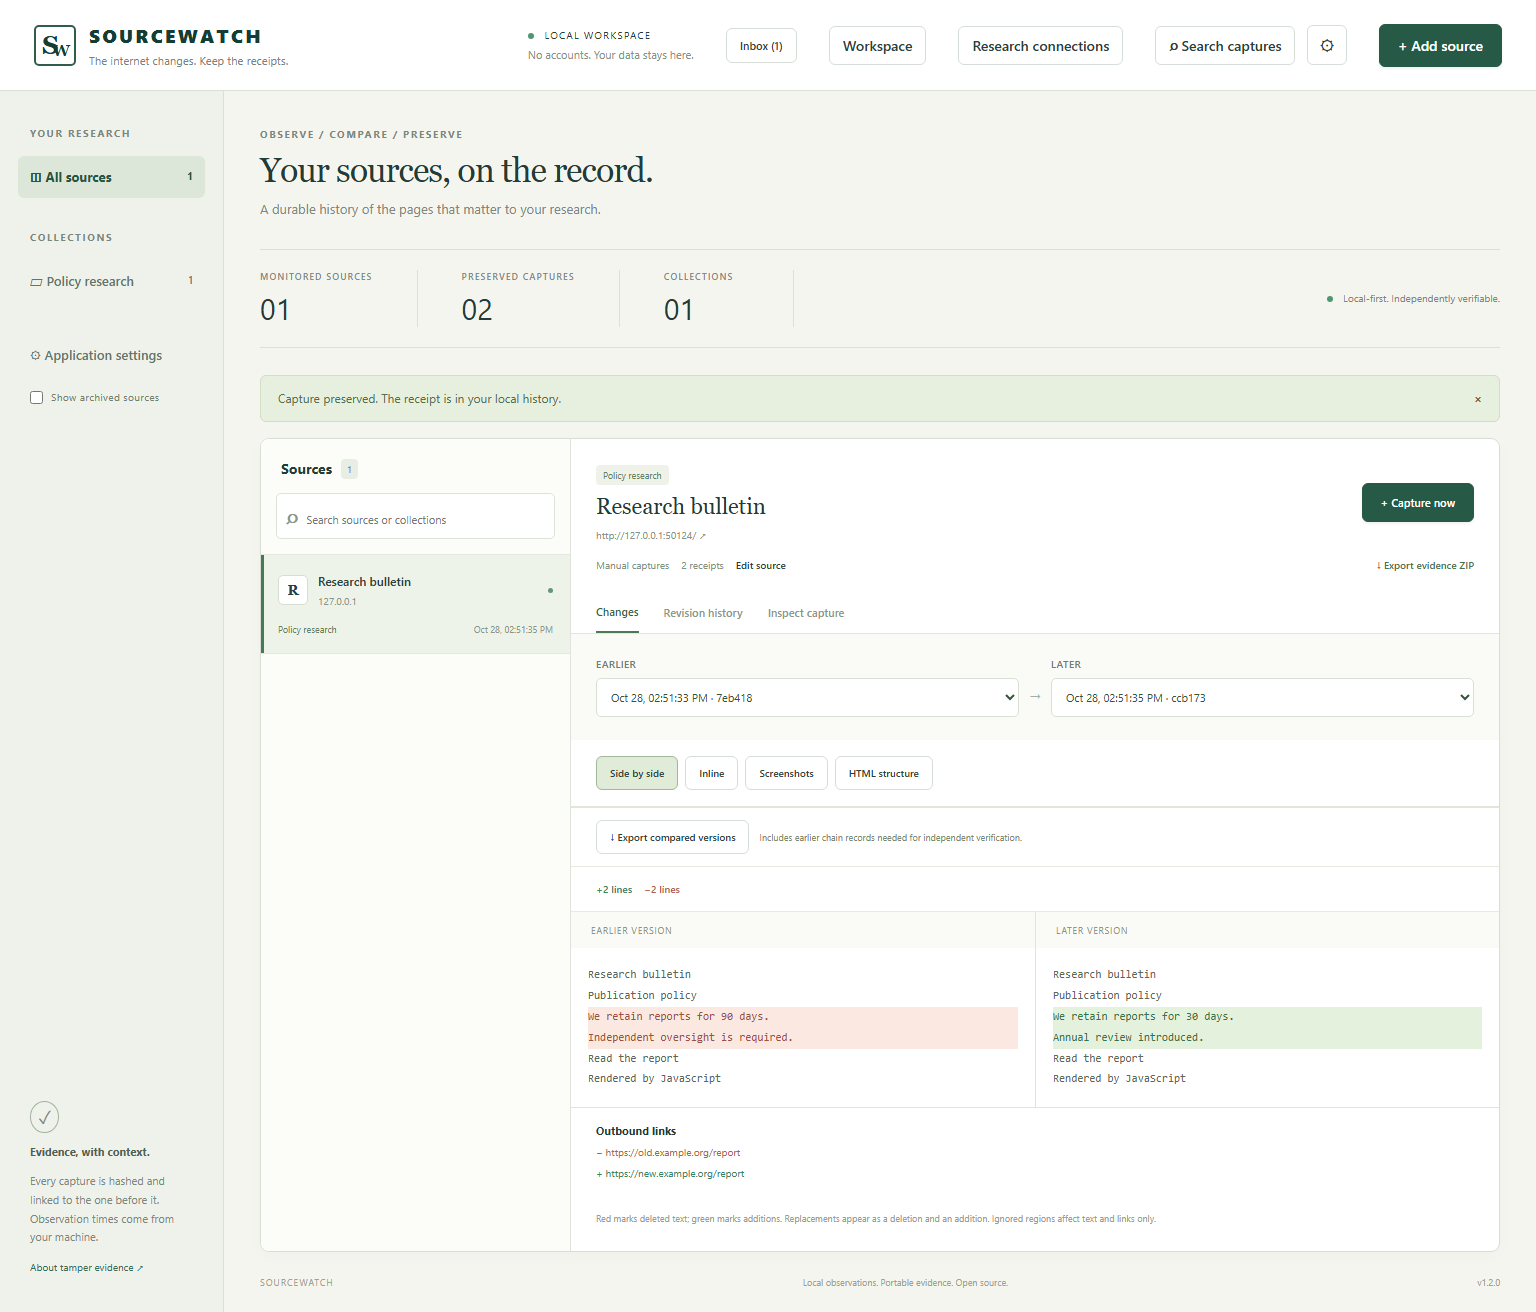
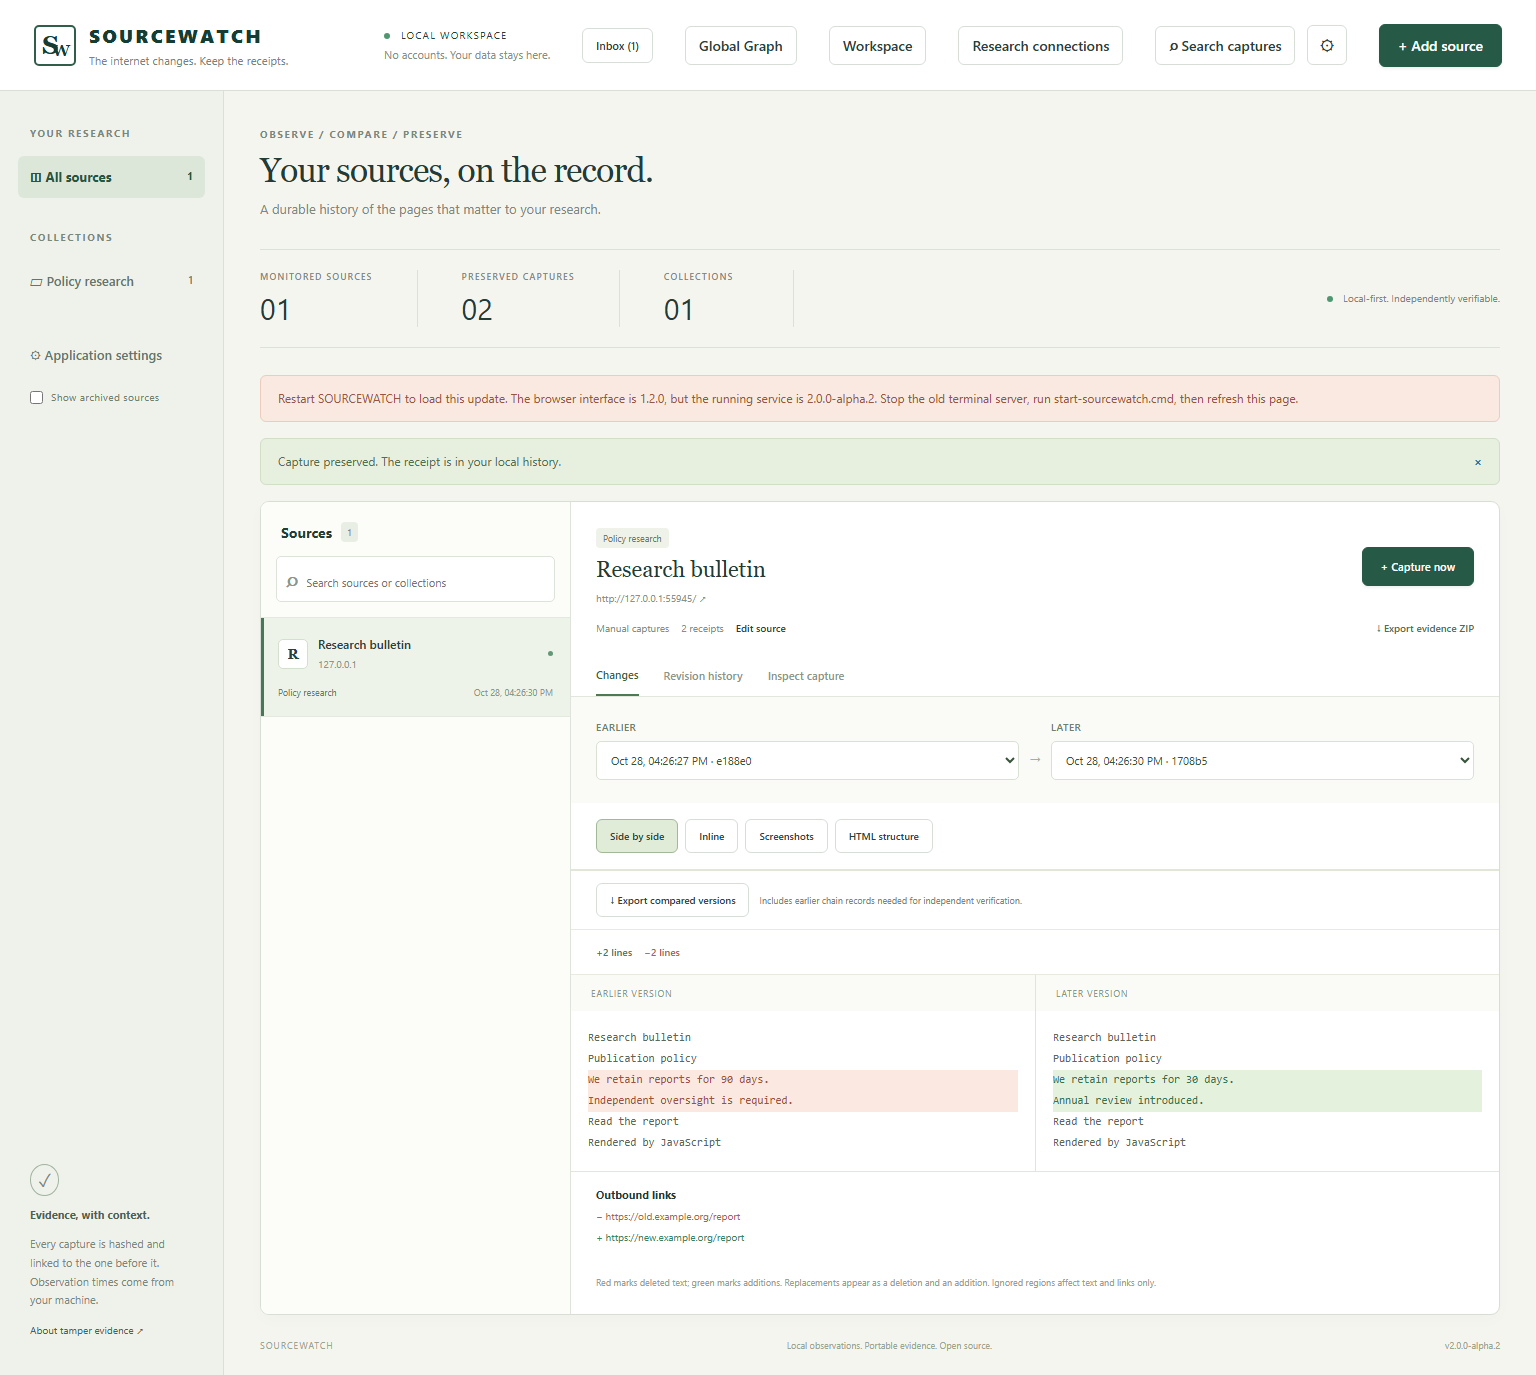
Record Global Graph audit dataset counts and renderer benchmarks

diff --git a/docs/GLOBAL_GRAPH_AUDIT.md b/docs/GLOBAL_GRAPH_AUDIT.md
@@ -1,0 +1,56 @@
+# Global Graph implementation audit — 2.0.0-alpha.2
+
+## Finding
+
+Before this change SourceWatch had a bounded Network explorer, not a functional Obsidian-style Global Graph. `intelligence.graph()` capped displayed nodes/edges at 500, concentrated on entity/relationship records, and `ui/intelligence.tsx` placed nodes around a circle. There was no continuously refreshed whole-ecosystem index, force simulation, global category styling or cluster navigation. Existing database forms, local Network explorer and editable Canvas were retained.
+
+Obsidian's documented reference behavior includes whole-vault notes/links, degree-based node sizes, selection, zoom/pan, orphan visibility, group colors, adjustable forces, and a depth-controlled local graph: https://obsidian.md/help/plugins/graph . SourceWatch now supplies the analogous research navigation without claiming full Obsidian parity.
+
+## Real dataset audit
+
+The default local `data/sourcewatch.sqlite` was opened read-only. Its aggregate counts matched the running service's catalog (one source, one capture, one vault). No research titles, URLs, artifacts or personal contents were copied into this report.
+
+| Metric | Observed |
+| --- | ---: |
+| Eligible indexed records | 2 |
+| Indexed entities | 0 |
+| Stored links | 1 |
+| Orphaned nodes | 0 |
+| Excluded records | 1 |
+| Unresolved stored references | 0 |
+
+The link is source-to-preserved-capture membership, not an invented factual association. The excluded record is vault configuration. This dataset is too small to resemble a mature research network. `GLOBAL_GRAPH_DATA_AUDIT.json` records the aggregate audit. No demonstration nodes or relationships were inserted into this database.
+
+## Implemented components
+
+- **Global Graph** is a dashboard button, a workspace tab and a command-palette destination. The separate original Network view and Canvas continue to work.
+- `src/ecosystem.ts` derives nodes from nondeleted notes, attachments/documents, monitored sources, captures/evidence, entities, investigations, relationship records, canvases, boards, corrections and legacy research nodes. Configuration, preferences and deleted records are excluded and counted.
+- Edges derive from actual wikilinks (including aliases, UUIDs, folders and headings), matched source hyperlinks, explicit references, evidence citations, relationship endpoints, investigations/timelines, canvas placements/annotations and legacy links. Hyperlinks, citations, annotations, reviewed associations and membership have distinct categories. Canvas hypotheses remain annotations even when the corresponding authoritative database relationship is reviewed.
+- The API detects connection-local writes and external SQLite changes, rebuilding its cached index when needed. An open graph polls every two seconds. No manual graph reconstruction is needed. Deletions remove indexed records; missing/ambiguous references are counted rather than guessed.
+- Canvas 2D draws the ecosystem; a bundled worker runs link springs, spatial-grid repulsion and cluster-centering forces. This is a real dynamic simulation, not a fixed circular diagram. Work settles after 180 ticks and reheats for graph changes or dragging. Repulsion samples bounded local neighbors rather than all-pairs work.
+- Nodes use category colors and per-category size multipliers, with additional degree-based hub sizing. Colors/sizes persist locally. Pan, pointer-centered wheel zoom, buttons, keyboard panning and fit operate independently of record inspection.
+- Global Ecosystem, Local Network (one to eight undirected hops) and Investigation Network perspectives share the index. Search, category/link filters, isolated-node visibility, cluster collapse/expansion and cluster focusing are available. Connected components are split into bounded connected neighborhoods when large; these clusters are navigation aids, not asserted social or factual communities.
+- Node selection shows the corresponding stored record and known links in an inspector. Full record navigation reuses the existing editors/evidence inspector. Graph state remains mounted during workspace navigation; selection, viewport and filter context have session recovery when leaving/reopening the workspace.
+- Investigations retain references and independently saved graph coordinates/viewport with revision conflicts. They can open a persistent investigation canvas using the existing editable cards, evidence references and annotation tools. Canvas conversion is bounded to 1,000 records; existing investigation canvases are reused, not silently overwritten.
+
+## Populated demonstration
+
+Select **Demonstration dataset** in Global Graph, or use `/?workspace=graph&demo=1`. It supplies 10,000 synthetic mixed-category records and 12,000 explicitly synthetic links in memory, including hubs and inter-cluster connections. Demo data is visibly labeled and never written to the research database. No synthetic association is labeled verified. The separate preview service on port 3211 uses `work/global-graph-preview` rather than production data.
+
+## Verification and performance
+
+Production build/TypeScript and ESLint passed. The full regression suite passed **102 tests: 99 passed, 0 failed, 3 Windows symlink/junction privilege skips**. A subsequent 16-test browser/integration run passed after context/focus refinements. Browser tests exercise discoverability, selected records and links, automatic updates after writes, local depth, cluster collapse/focus/expand, return from a record, all 10,000 nodes/12,000 edges, search, export-independent layout persistence and the existing investigation journey. Tests use isolated databases.
+
+`global-graph-browser-benchmark.json` contains measured real Chromium renderer/search results from the latest run; these are local measurements, not cross-device guarantees. The test waits for the worker's complete 180 ticks, verifies 10,000 visible nodes and 12,000 edges, searches a record near the end of the index, and asserts no database writes from demo mode.
+
+`npm run benchmark:global-graph` independently seeds a temporary SQLite database with 10,000 stored notes and 12,000 real wikilinks, then runs the actual indexer and force code. The measured index took **483 ms**, force preparation **46 ms**, and 20 force iterations **350 ms**, with approximately **172 MiB** process RSS. Its entire graph was returned (no 500-node truncation); see `global-graph-index-benchmark.json`. This fixture database is removed afterward.
+
+## Limits
+
+This is not an unlimited graph or a full Obsidian clone. Safety ceilings are 100,000 indexed nodes and 250,000 edges, with an explicit truncation flag. Performance is validated at 10,000/12,000, not guaranteed at those ceilings. Search filters the rendered subset; the accessible result list shows the first 100 matches and search can reach any indexed node. The center dropdown lists up to 12,000 choices; larger indexes can select a center through node search. Relationship lists show the first 100 entries while the graph retains the indexed edges. Local depth is a graph-distance view, not proof of causality or identity. Clustering is topological neighborhood grouping, not a validated community-detection finding.
+
+The force engine uses bounded spatial sampling; arbitrary force equations and GPU rendering are not implemented. Indexes are derived on demand and refreshed within about two seconds, rather than maintained by a separate background indexing daemon. Browser/mobile hardware beyond Chromium remains pending. Reviewed status means a local explicit evidence review; hashes and graph appearance do not certify authenticity, factual truth or independent publication timestamps.
+
+## Running the updated application
+
+An already running backend must restart to register the new routes. Stop it with Ctrl+C, then from the dedicated sourcewatch folder run `npm.cmd run build` and `npm.cmd start`. The UI shows restart guidance when backend/frontend versions differ. The existing service on port 3210 was not killed during this audit.

diff --git a/docs/WORKSPACE_GUIDE.md b/docs/WORKSPACE_GUIDE.md
@@ -69,3 +69,9 @@ The verifier uses Node built-ins and checks missing, changed, unexpected and uns
 Each attachment is limited to 8 MiB; workspace attachments have a 512 MiB budget. Portable workspace exports are limited to 128 MiB and reject oversized object/history payloads before ZIP creation. Canvas validation limits a document to 4 MiB, 2,000 cards and 5,000 edges. PDF previews cap documents at 500 pages and render one bounded page at a time. Global/local graph queries and paths are bounded; the benchmark is a backend 10,000-entity/12,000-relationship test, not proof of simultaneously rendering 22,000 items in a browser.
 
 Missing items include automatic sync and encrypted conflict reconciliation, full mobile/offline support, native executable plugin compatibility, live hosted publishing, complete advanced editor and `.base` parity, advanced community analysis and some graph filters, full attachment/file interop and drag-editable kanban. These are tracked in the matrix rather than represented as completed functionality.
+
+## Global Graph
+
+The new dashboard **Global Graph** button opens a separate live ecosystem view; it does not replace the original Database & network or Canvas. Select a record to inspect its stored data and known links. Use **Focus selected cluster** after collapsing clusters to expand and zoom into its records. Local Network uses the selected record and depth control. Investigation Network loads saved investigation references; save a layout after arranging nodes, or open its editable investigation canvas for evidence and annotations.
+
+The **Demonstration dataset** checkbox supplies a visibly synthetic 10,000-node/12,000-link map without writing it to the real database. This is useful when your own vault is new. See [Global Graph audit](GLOBAL_GRAPH_AUDIT.md) for the actual local dataset audit, automatic-index behavior, benchmarks and explicit navigation/resource limits.

diff --git a/CHANGELOG.md b/CHANGELOG.md
@@ -30,3 +30,7 @@ This entry describes the source tree, not a claim of publication. See README and
 Added a shared versioned workspace, persistent Markdown vault/backlinks/history, editable JSON Canvas, an entity/relationship database and separate network graph, evidence-reviewed hypotheses, investigations, attachments and local PDF previews. Added workspace/Markdown/graph exports and standalone workspace verification, property views, clip import, declarative navigation extensions, audio recording and loopback CLI. Browser tests exercise actual persisted edits, conflicts and generated export bytes.
 
 This is a dedicated feature-branch preview. Full master expansion and Module J acceptance remain partial; automatic sync, advanced editor/plugin/base parity, complete mobile/offline behavior and advanced graph analysis are unfinished. See the feature matrix and validation report.
+
+## 2.0.0-alpha.2 — Global Graph audit and implementation
+
+Added a derived live ecosystem index and discoverable Global Graph workspace, force-worker/Canvas renderer, category/hub styling, typed stored edges, global/local/investigation perspectives, cluster navigation, record inspector and revision-checked investigation layouts. Added a memory-only labeled 10k/12k demo and actual SQLite index/browser performance benchmarks. Retained the existing Network and editable Canvas. Audit and limits: docs/GLOBAL_GRAPH_AUDIT.md.

diff --git a/README.md b/README.md
@@ -136,3 +136,7 @@ This is a **feature-branch alpha**, not full completion of the expansion directi
 ![Actual persistent canvas browser test](docs/screenshots/canvas.png)
 
 [Actual intelligence network](docs/screenshots/intelligence-network.png)
+
+## Global Graph (2.0.0-alpha.2)
+
+Use **Global Graph** on the dashboard to see the indexed research ecosystem, or change its perspective to Local Network or Investigation Network. The graph automatically reflects saved data, distinguishes hyperlink/citation/annotation/reviewed links, and retains context during record inspection. A clearly labeled **Demonstration dataset** supplies 10,000 synthetic nodes and 12,000 links without inserting research records. See [implementation audit](docs/GLOBAL_GRAPH_AUDIT.md) for dataset counts, browser verification, benchmarks and limits.
